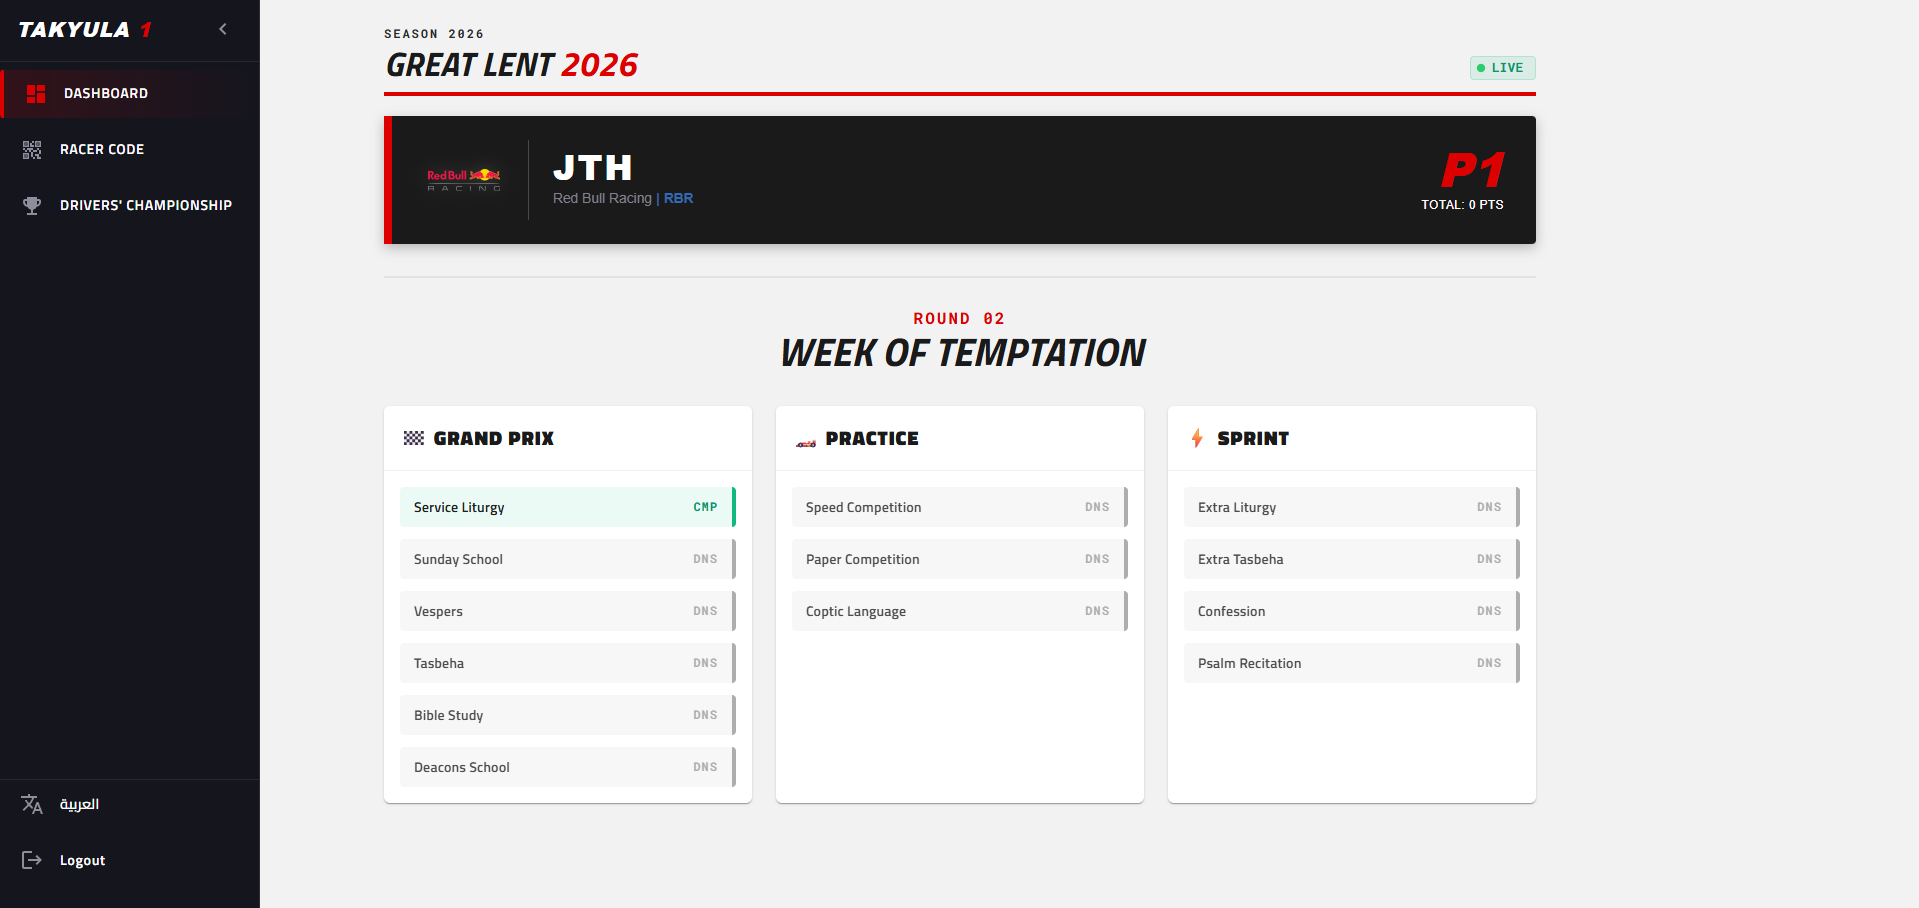
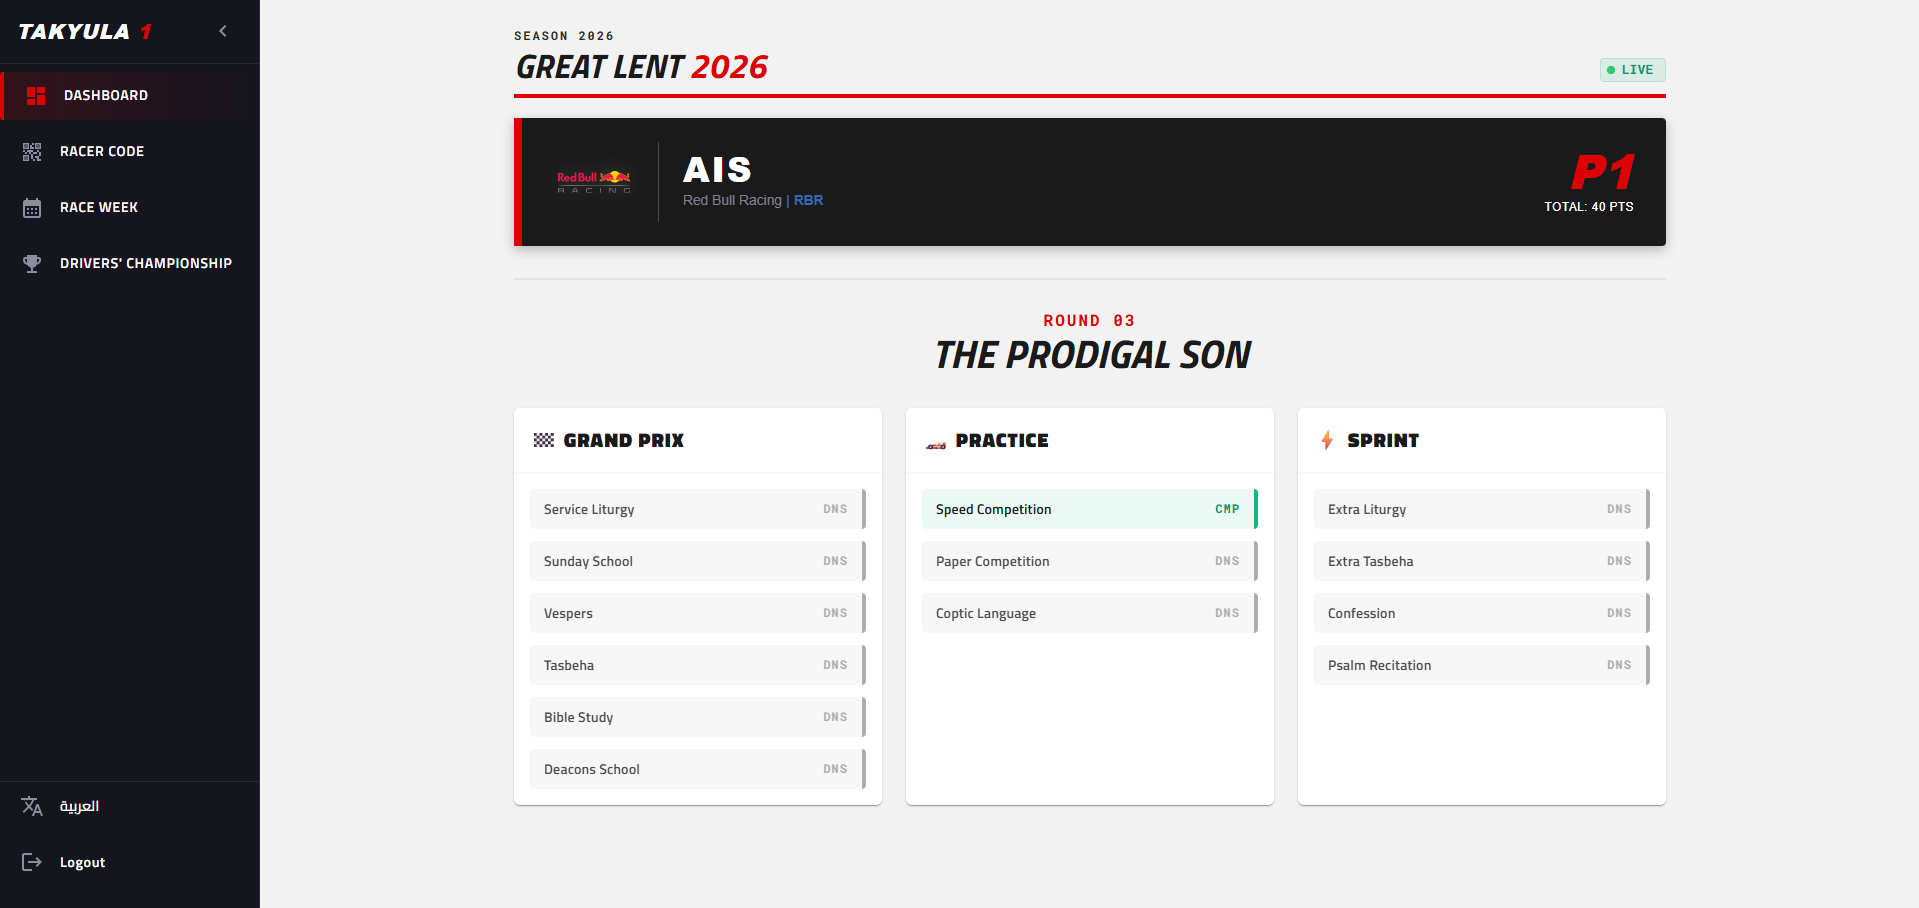
update README.md

diff --git a/README.md b/README.md
@@ -42,9 +42,10 @@ Students participate in church events and receive points for attendance. The pla
 | Page | Available To |
 |---|---|
 | Login | All |
-| Drivers Championship (Leaderboard) | All |
+| Drivers Championship (Compeition Leaderboard) | All |
+| Race Week (Weekly Leaderboard) | All |
 | Dashboard | `STUDENT` |
-| Race Control | `SERVANT`, `SUPER_SERVANT`, `STUDENT` |
+| Race Control | `SERVANT`, `SUPER_SERVANT` |
 | Manual Scoring | `SUPER_SERVANT` |
 
 ## Getting Started
@@ -87,8 +88,10 @@ The frontend runs on `http://localhost:3000` and proxies API requests to the bac
 ![Login](assets/screenshots/login.png)
 - Dashboard
 ![Dashboard](assets/screenshots/dashboard.png)
-- Drivers Championship leaderboard
-![Drivers Championship leaderboard](assets/screenshots/drivers-championship-leaderboard.png)
+- Drivers Championship (Competition Leaderboard)
+![Drivers Championship leaderboard](assets/screenshots/drivers-championship.png)
+- Race Week (Weekly Leaderboard)
+![Race Week](assets/screenshots/race-week.png)
 - Racer QR Code page
 ![Racer QR Code](assets/screenshots/racer-code.png)
 - Race Control
